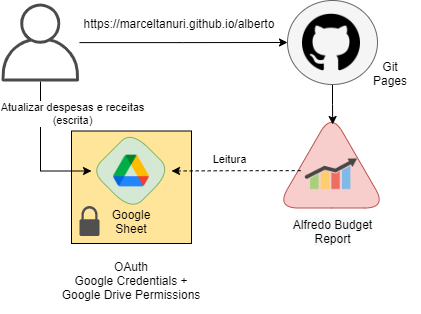
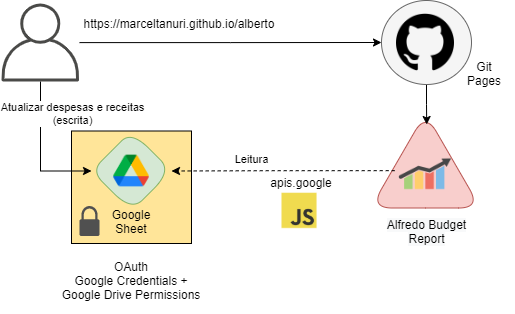
initial commit

diff --git a/README.md b/README.md
@@ -16,3 +16,6 @@ O Alberto é uma aplicação de código "alberto" que integra com API Google par
     
 Observações:
 - O código da planilha não concede acesso direto aos dados da planilha. As permissões de acesso da planilha são definidas pelo google drive e respeitadas pelo sistema, ou seja, somente o administrador da planilha ou pessoas com quem ele tenha compartilhado a planilha é que terão acesso aos dados
+
+## Visão geral de arquitetura
+
